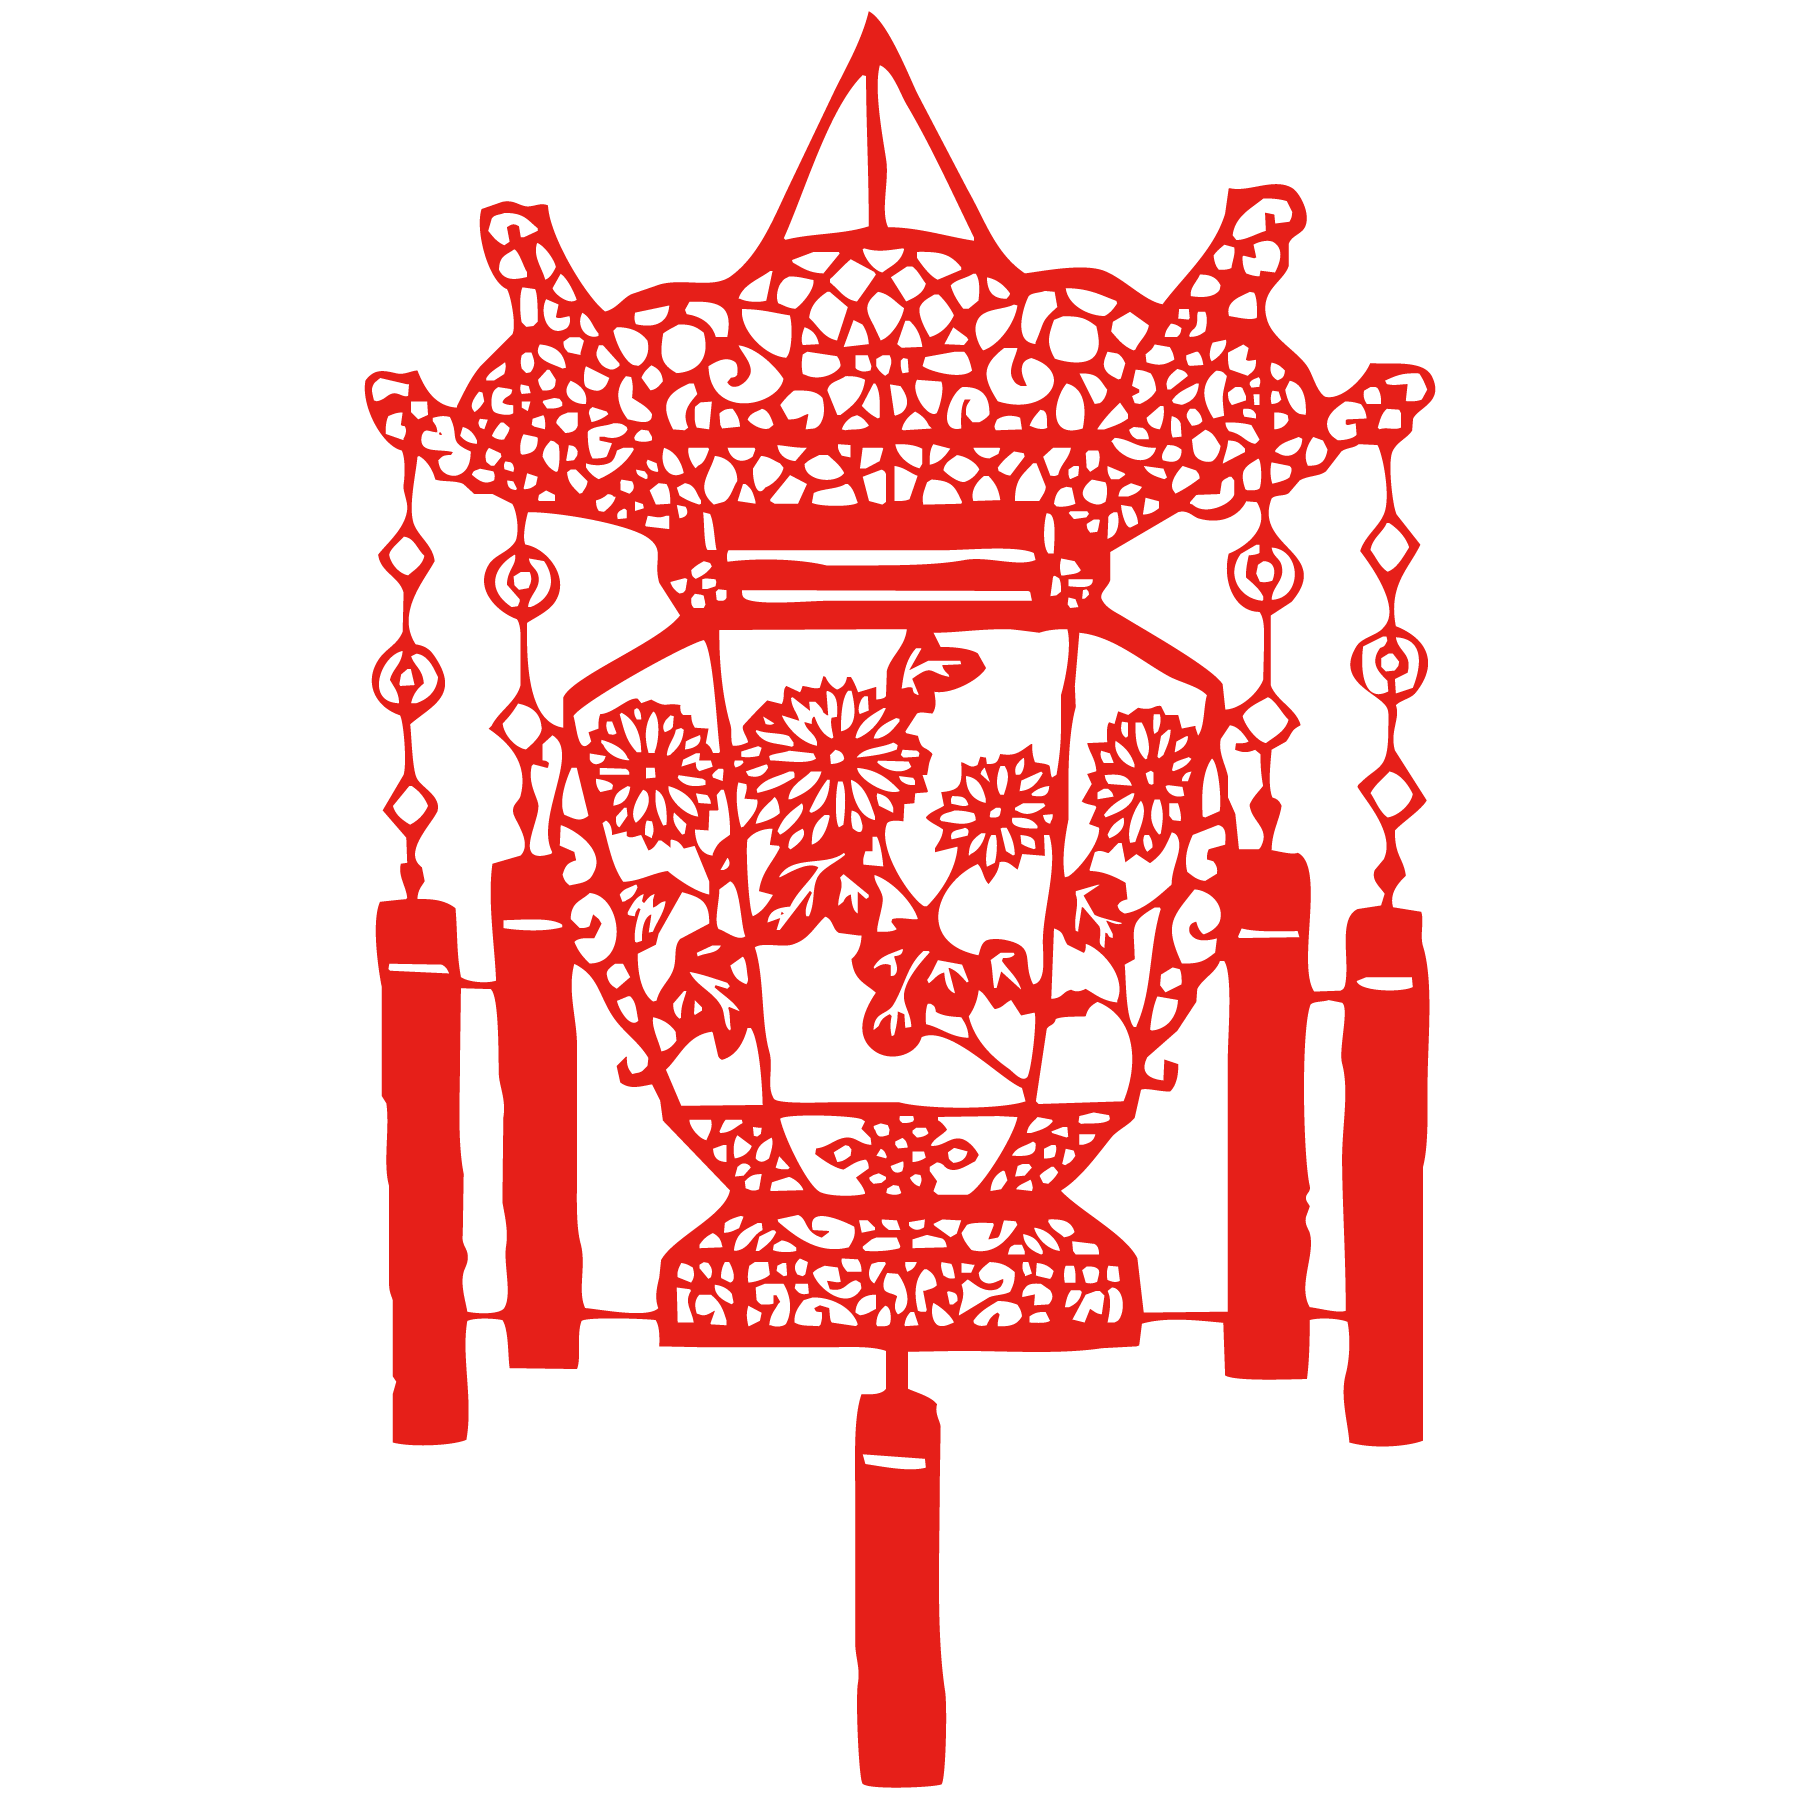
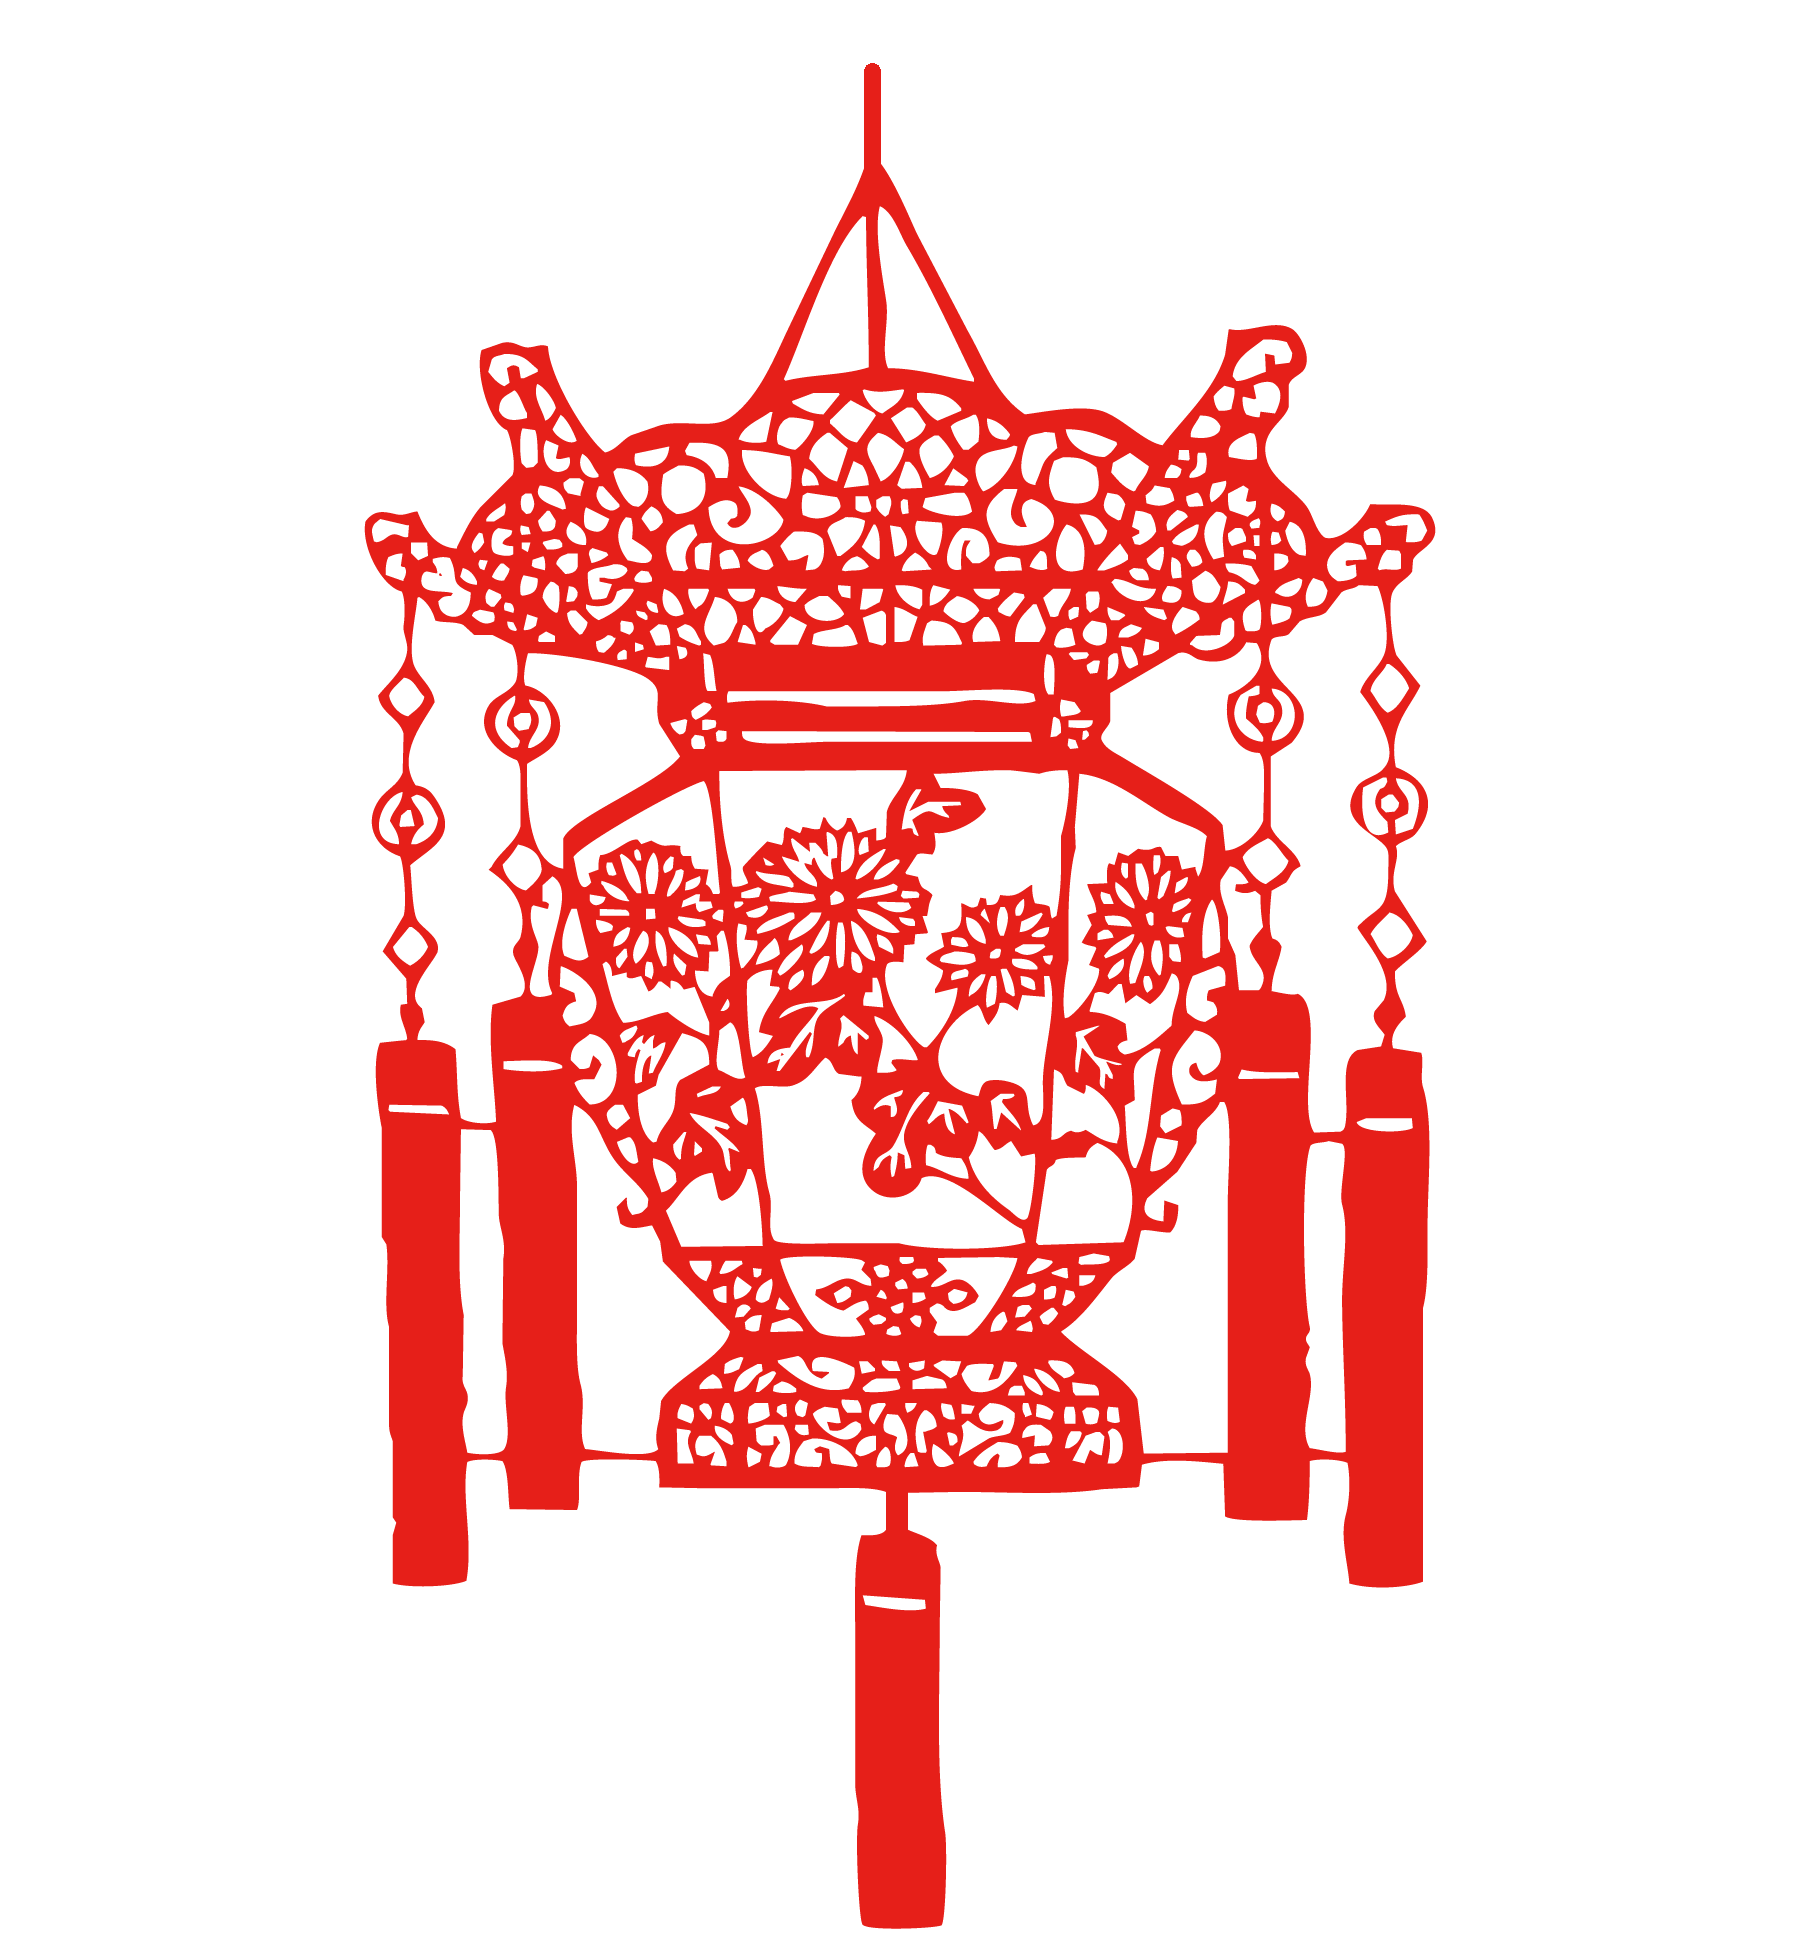
add audio && fix lantern & count

Changed region(s): [[0.1867, 0.0, 0.8089, 0.84], [0.7467, 0.7778, 0.8089, 0.84]]

diff --git a/src/pages/index/index.vue b/src/pages/index/index.vue
@@ -2,7 +2,7 @@
     <div class="container">
         <!-- <div class="message">{{msg}}</div> -->
         <div class="box">
-            <img src="/static/images/lantern.png" mode="widthFix" @click="getSingleRiddle">
+            <img src="/static/images/lantern.png" mode="widthFix">
         </div>
         <!-- <div class="pop-container" v-if="showRiddle">
         {{riddle}}
@@ -11,9 +11,15 @@
             <div>
                 <img class="userinfo-avatar" :src="userInfo.avatarUrl">
                 <!-- <img class="userinfo-avatar" src="/static/images/unlog_avatar.jpg" v-else> -->
+            </div>
+            <div>
                 <span>{{userInfo.nickName}}</span>
             </div>
-            <div>猜中{{correctCount}}条</div>
+            <div style="color:#f03232;">猜中{{correctCount}}条</div>
+        </div>
+        <div class="riddle-bar" v-if="correct!=0||!showRiddle">
+             <div v-if="correct===0&&!showRiddle" @click="getSingleRiddle">点击抽取</div>
+            <div v-else-if="correct===1||correct===2" @click="getSingleRiddle">再抽一条</div>
         </div>
         <div class="pop-container" v-if="showRiddle">
             <div class="question">
@@ -31,26 +37,19 @@
                     v-model="userAnswer"
                     placeholder="猜猜看"
                     @confirm="confirm()"
+                    class="answer-input"
                 >
                 <!-- <button class="confirm-btn" @click="handleClick">太简单了！提交~</button> -->
-                <div v-else-if="correct==1">答对了</div>
-                <div v-else>不对哦~再想想</div>
+                <div class="scroll" v-else-if="correct==1">
+                    <div>答对了!</div>
+                    <div>{{explanation}}</div>
+                </div>
+                <div class="scroll" v-else>不对哦~再试试</div>
             </div>
-        </div>
-        <div class="pop-container" v-else>
-            <div class="web-font">点击灯笼</div>
-            <div class="web-font">抽取灯谜</div>
         </div>
     </div>
 </template>
 
-<script type="text/javascript" src="http://cdn.webfont.youziku.com/wwwroot/js/wf/youziku.api.min.js"></script>
-<script type="text/javascript">
-   $youziku.load(".pop-container", "af65e8d4f6f7452494205fe1cb9e4577", "CTWeiBeiSJ");
-   /*$youziku.load("#id1,.class1,h1", "af65e8d4f6f7452494205fe1cb9e4577", "CTWeiBeiSJ");*/
-   /*．．．*/
-   $youziku.draw();
-</script>
 <script>
 import { get, getStorageOpenid, post } from "../../utils/wx-request";
 import { toLogin, login } from "../../utils";
@@ -66,7 +65,8 @@ export default {
             userInfo: wx.getStorageSync("userInfo"),
             correctCount: 0,
             openid: wx.getStorageSync("openid"),
-            correct: 0
+            correct: 0,
+            explanation:""
         };
     },
 
@@ -111,7 +111,9 @@ export default {
             this.hint = data.data.hint;
             this.showRiddle = true;
             this.correct = 0;
-            this.answer = "";
+            this.userAnswer = "";
+            // 待删除在确认时再赋值
+            this.explanation=data.data.explanation;
             console.log(this.riddle);
         },
         async confirm() {
@@ -120,9 +122,11 @@ export default {
             const res = await get("/riddle/verify", { answer: userAnswer });
             if (res != null && res.data == true) {
                 this.correct = 1;
+                this.correctCount+=1;
             } else {
                 this.correct = 2;
             }
+            this.userAnswer = "";
             console.log("correct:" + res.data);
         }
     }
@@ -136,7 +140,7 @@ div .box {
 
 div.box img {
     width: 70%;
-    margin-top: 30px;
+    margin-top: 2px;
 }
 
 .message {
@@ -147,14 +151,13 @@ div.box img {
 
 .pop-container {
     text-align: center;
-    padding: 0;
-    font-family:"webfont" !important;
-    font-size:16px;
-    font-style:normal;
-    -webkit-font-smoothing: antialiased;
-    -webkit-text-stroke-width: 0.2px;
-    -moz-osx-font-smoothing: grayscale;
-    color:#333;
+    margin: 0 28px;
+    min-height: 20%;
+    border-style:double;
+    border-color: #f03232;
+    border-radius: 0.5em;
+    border-width: 7px;
+    padding:5px;
 }
 
 .pop-container > div {
@@ -175,7 +178,7 @@ input {
     text-align: center;
     width: 70%;
     border: none;
-    background-color: red;
+    background-color: #f03232;
     color: #eee;
 }
 
@@ -186,10 +189,26 @@ div .userinfo-bar {
     font-size: 14px;
 }
 
+div .riddle-bar {
+    position: absolute;
+    top: 20%;
+    left:46%;
+    right: 46%;
+    padding: 6px;
+    border:#f03232;
+    border-radius: 0.5em;
+    background-color: #f03232;
+    color:burlywood;
+}
+
+div .question{
+    color:#f03232;
+}
+
 /* 头像 */
 .userinfo-avatar {
-    width: 32rpx;
-    height: 32rpx;
+    width: 64rpx;
+    height: 64rpx;
     /* 在App.vue中统一定义 */
     /* border-radius:50%; */
 }
@@ -203,4 +222,13 @@ div .userinfo-bar {
     -moz-osx-font-smoothing: grayscale;
     color:#333;
 }
+
+.answer-input{
+    border:1px,solid,#f03232;
+}
+
+.scroll{
+    margin: 5px 0 0 0;
+}
+
 </style>

diff --git a/src/App.vue b/src/App.vue
@@ -1,29 +1,52 @@
 <script>
 /* 这部分相当于原生小程序的 app.js */
+
 export default {
-  created () {
-    console.log('miniapp created!!!')
-  }
-}
+    created() {
+        console.log("miniapp created!!!");
+    },
+    mounted() {
+        const backgroundAudioManager = wx.getBackgroundAudioManager();
+        backgroundAudioManager.title = "步步高";
+        backgroundAudioManager.epname = "步步高";
+        backgroundAudioManager.singer = "中央民族乐团";
+        backgroundAudioManager.coverImgUrl =
+            // "http://y.gtimg.cn/music/photo_new/T002R300x300M000003rsKF44GyaSk.jpg?max_age=2592000";
+            "http://y.gtimg.cn/music/photo_new/T002R800x800M000004DC0NR23DKVD.jpg?max_age=2592000";
+        // 设置了 src 之后会自动播放
+        backgroundAudioManager.src =
+            // 可仿照官方链接拼接
+            // "http://ws.stream.qqmusic.qq.com/M500001VfvsJ21xFqb.mp3?guid=ffffffff82def4af4b12b3cd9337d5e7&uin=346897220&vkey=6292F51E1E384E061FF02C31F716658E5C81F5594D561F2E88B854E81CAAB7806D5E4F103E55D33C16F3FAC506D1AB172DE8600B37E43FAD&fromtag=46"; 
+            "http://isure.stream.qqmusic.qq.com/C400001rjId84BMaEK.m4a?guid=9409697232&vkey=B189EC590816937E068AB49DEDF532FC2249330809C3E2082D6E32DBC656EBF747EB8C2958A0F865005BACD33470B2C58056974FC79700A6&uin=0&fromtag=66";
+    }
+};
 </script>
 
 <style>
 page {
-  height: 100%;
+    height: 100%;
 }
 
 /* 这部分相当于原生小程序的 app.wxss */
 .userinfo-avatar {
-border-radius:50%;
+    border-radius: 50%;
 }
 
 .container {
-  height: 100%;
-  background-repeat:no-repeat;
-  background-size: 100% 100%;
-  /* background-size:cover; */
-  /* background-image:url(http://thyrsi.com/t6/664/1548750094x2890202498.jpg); */
-  /* background-image:url(http://thyrsi.com/t6/664/1548750264x2890202498.jpg); */
-  background-image: url(http://thyrsi.com/t6/664/1548759691x2890203049.png);
+    height: 100%;
+    font-size: 14px;
+    font-family: "webfont" !important;
+    font-size: 16px;
+    font-style: normal;
+    -webkit-font-smoothing: antialiased;
+    -webkit-text-stroke-width: 0.2px;
+    -moz-osx-font-smoothing: grayscale;
+    color: #333;
+    background-repeat: no-repeat;
+    background-size: 100% 100%;
+    /* background-size:cover; */
+    /* background-image:url(http://thyrsi.com/t6/664/1548750094x2890202498.jpg); */
+    /* background-image:url(http://thyrsi.com/t6/664/1548750264x2890202498.jpg); */
+    background-image: url(http://thyrsi.com/t6/664/1548759691x2890203049.png);
 }
 </style>
